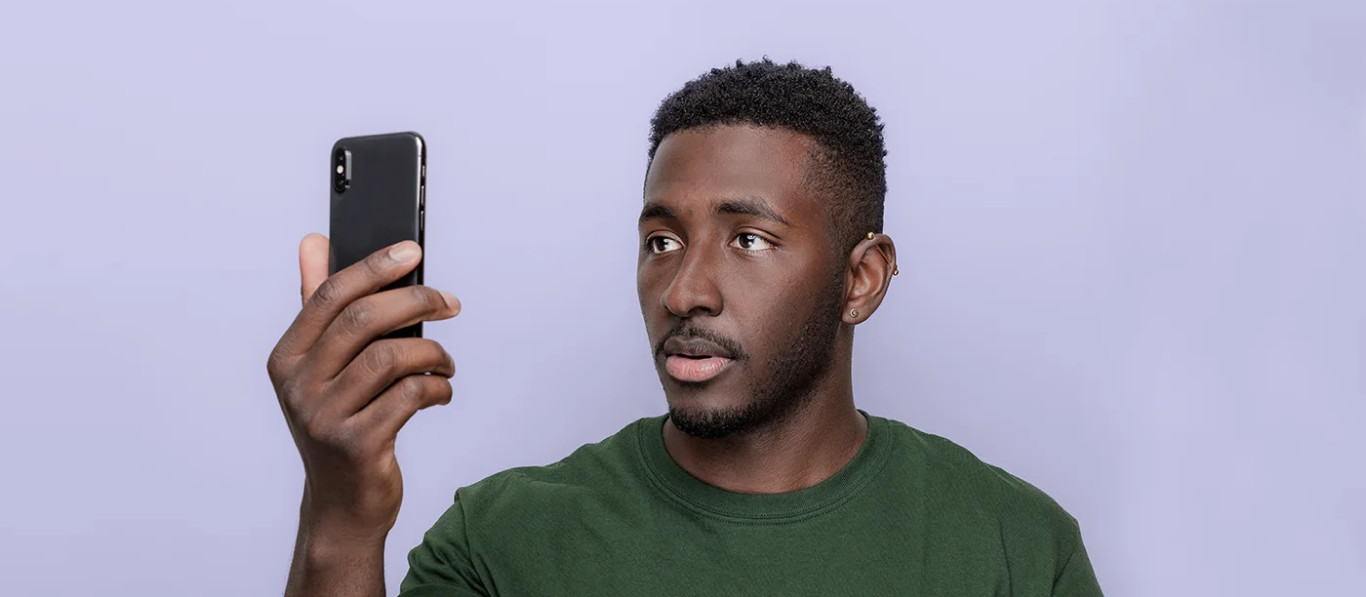
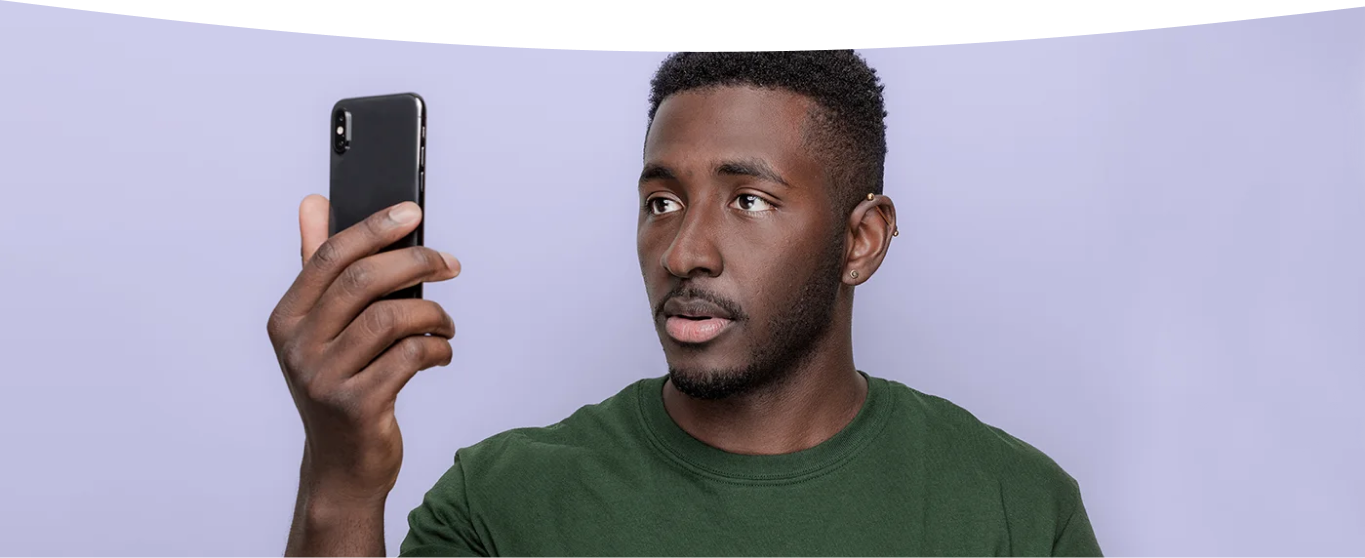
fix: background and padding

diff --git a/app/pages/customers/curology.tsx b/app/pages/customers/curology.tsx
@@ -6,7 +6,7 @@ import BlockQuote from "../../components/customers/block-quote";
 import SectionContainer from "../../components/customers/section-container";
 import Title from "../../components/customers/title";
 import Admonition from "../../components/customers/admonition";
-import IFrame from "../../components/customers/iframe";
+// import IFrame from "../../components/customers/iframe";
 import Footer from "../../components/customers/footer";
 
 export default function Curology() {
@@ -173,13 +173,13 @@ export default function Curology() {
                     image={CustomerAssets.Curology.EricWong}
                     name="Eric Wong"
                 />
-                <IFrame
+                {/* <IFrame
                     src="https://www.youtube.com/embed/N8-UZoDJb7o?rel=0&amp;controls=1&amp;autoplay=0&amp;mute=0&amp;start=0"
                     title="SuperTokens Built Intelligence Case Study Supercut"
-                />
+                /> */}
                 <Footer
-                    title="Built Intelligence uses SuperTokens SSO for construction software-powering UK's National Grid and Environmental Agency"
-                    shareUrl="https://supertokens.com/customers/builtintelligence"
+                    title="SuperTokens powers the authentication and user management systems for Curology, the largest dermatology practice in the US with millions of users"
+                    shareUrl="https://supertokens.com/customers/curology"
                 />
             </SectionContainer>
         </article>

diff --git a/app/components/customers/hero.tsx b/app/components/customers/hero.tsx
@@ -34,7 +34,12 @@ export default function Hero({ config }: HeroProps) {
 
     return (
         <section className={styles.hero_container}>
-            <img {...CustomerAssets.Curology.Cover} className={styles.background_cover} />
+            <div
+                style={{
+                    backgroundImage: `url('${CustomerAssets.Curology.Cover.src}')`
+                }}
+                className={styles.background_cover}
+            />
             <div
                 className={styles.case_study_banner}
                 style={{

diff --git a/app/styles/customers/components/block-quote.module.css b/app/styles/customers/components/block-quote.module.css
@@ -101,7 +101,7 @@
 }
 
 @media (max-width: 680px) {
-    .block_quote_container  {
+    .block_quote_container {
         padding: 0px 20px;
     }
 
@@ -111,5 +111,9 @@
 
     .block_quote_container > p {
         font-size: 20px;
+    }
+
+    .profile {
+        padding-bottom: 6px;
     }
 }

diff --git a/app/styles/customers/components/hero.module.css b/app/styles/customers/components/hero.module.css
@@ -18,6 +18,8 @@
     opacity: 0.2;
 
     z-index: -1;
+
+    background-size: cover;
 }
 
 .case_study_banner {
